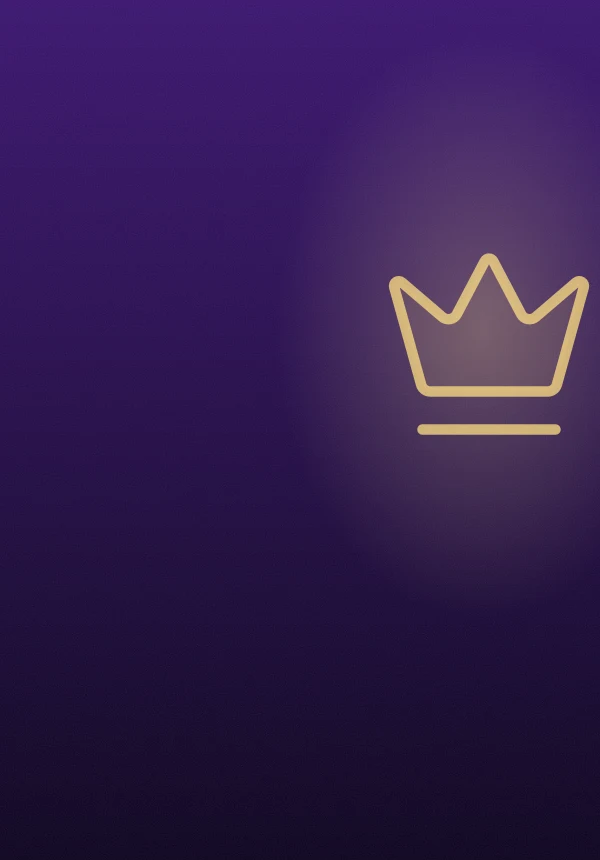
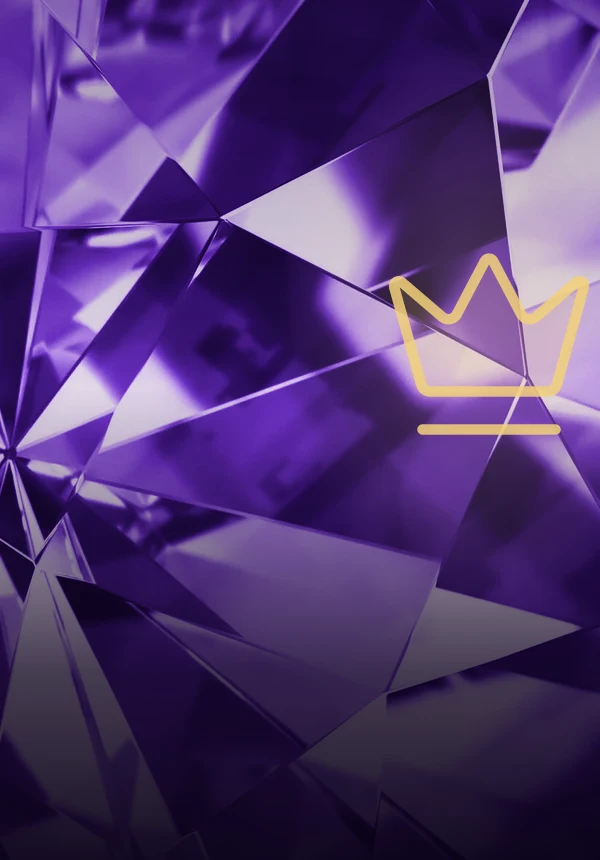
give the Team of the Month card a purple crystal background and neon frame

diff --git a/components/cancha-card.tsx b/components/cancha-card.tsx
@@ -93,19 +93,20 @@ const HIGHLIGHT_COLORS: Record<CardThemeKey, AwardColors> = {
 const HIGHLIGHT_ART = new Set<AwardKind>(["atacante", "criativo", "defensor", "goleiro", "gol", "foguete", "garcom", "drible", "motor"]);
 
 /**
- * Time do Mês (aprovado pelo dono do app em 2026-10-29): roxo real, a coroa dourada ao lado
- * do jogador e moldura de ouro lisa. Não veste o tema do mês (`hasSeasonalTheme`).
- * Fundo `premio-time-do-mes.webp`, gerado por `prototipos/mes.cjs` (docs).
+ * Time do Mês (aprovado pelo dono do app em 2026-10-29): o cristal lapidado que ele mandou,
+ * em roxo, com a coroa dourada ao lado do jogador e o tubo de neon das premium em roxo.
+ * Não veste o tema do mês (`hasSeasonalTheme`). Fundo `premio-time-do-mes.webp`, gerado
+ * por `prototipos/mes-cristal.cjs` (docs).
  */
 const MONTH_ROUPA: Roupa = {
   background: "premio-time-do-mes",
   metal: ["#b8902f", "#b8902f", "#fff1c2"],
   accent: "#f3d27a",
-  light: "255 225 150",
+  light: "220 180 255",
   bar: "#0b0318",
   muted: "#f3d27a",
- 
   sparkles: false,
+  neon: "#b46bff",
 };
 
 /**
